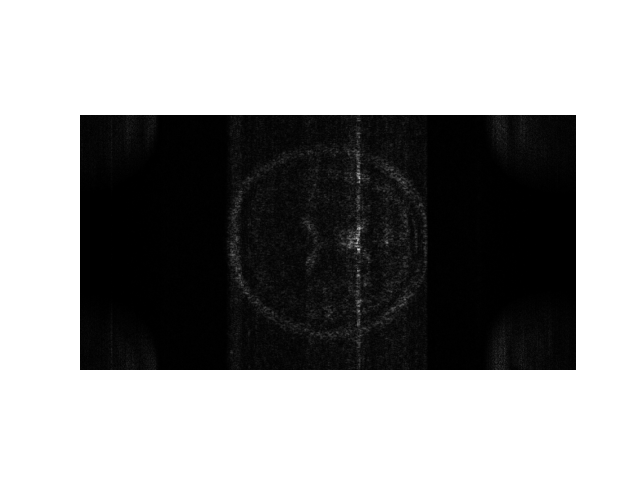
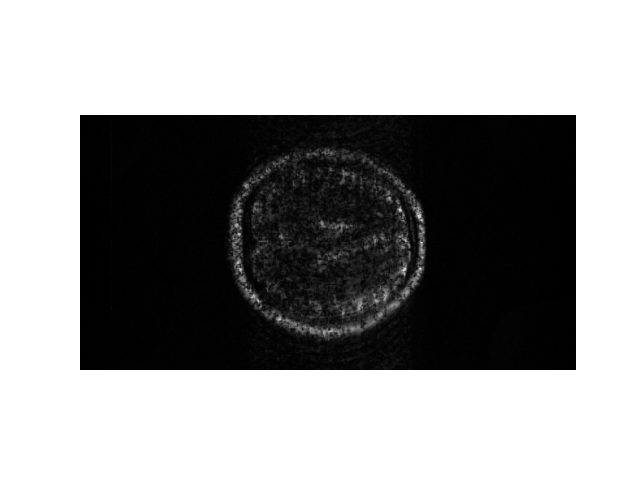
with regularization

Changed region(s): [[0.3438, 0.2812, 0.6875, 0.7188]]

diff --git a/my_CDLNet/sense.py b/my_CDLNet/sense.py
@@ -17,9 +17,9 @@ parser.add_argument("--kspace_path", type =str, help="Corresponding path where k
 
 # This will implement SENSE, which essentially performs conjugate gradient on the normal equations for MRI
 
-def eHe(x, mri_encoding, mri_decoding):
-    # Performs E^H E
-    return mri_decoding(mri_encoding(x))
+def eHe(x, mri_encoding, mri_decoding, lam = 0.1):
+    # Performs E^H E with lambda regularization
+    return mri_decoding(mri_encoding(x)) + lam * x
 
 def sense(y, acceleration_map, smaps, verbose):
     # Build a forward operator out of acceleration_map and smaps
@@ -29,7 +29,7 @@ def sense(y, acceleration_map, smaps, verbose):
     EHE = partial(eHe, mri_encoding = E, mri_decoding = EH)
     # If we have y = Ex, then we want to work with E^Hy = E^HEx, i.e. our symmetric operator is EHE
     EHy = EH(y)
-    return conj_grad(EHE, EH(y), tol = 1e-6, max_iter = 1e4, verbose = verbose)
+    return conj_grad(EHE, EH(y), tol = 1e-6, max_iter = 2e4, verbose = verbose)
 
 def main(args):
     ngpu = torch.cuda.device_count()
